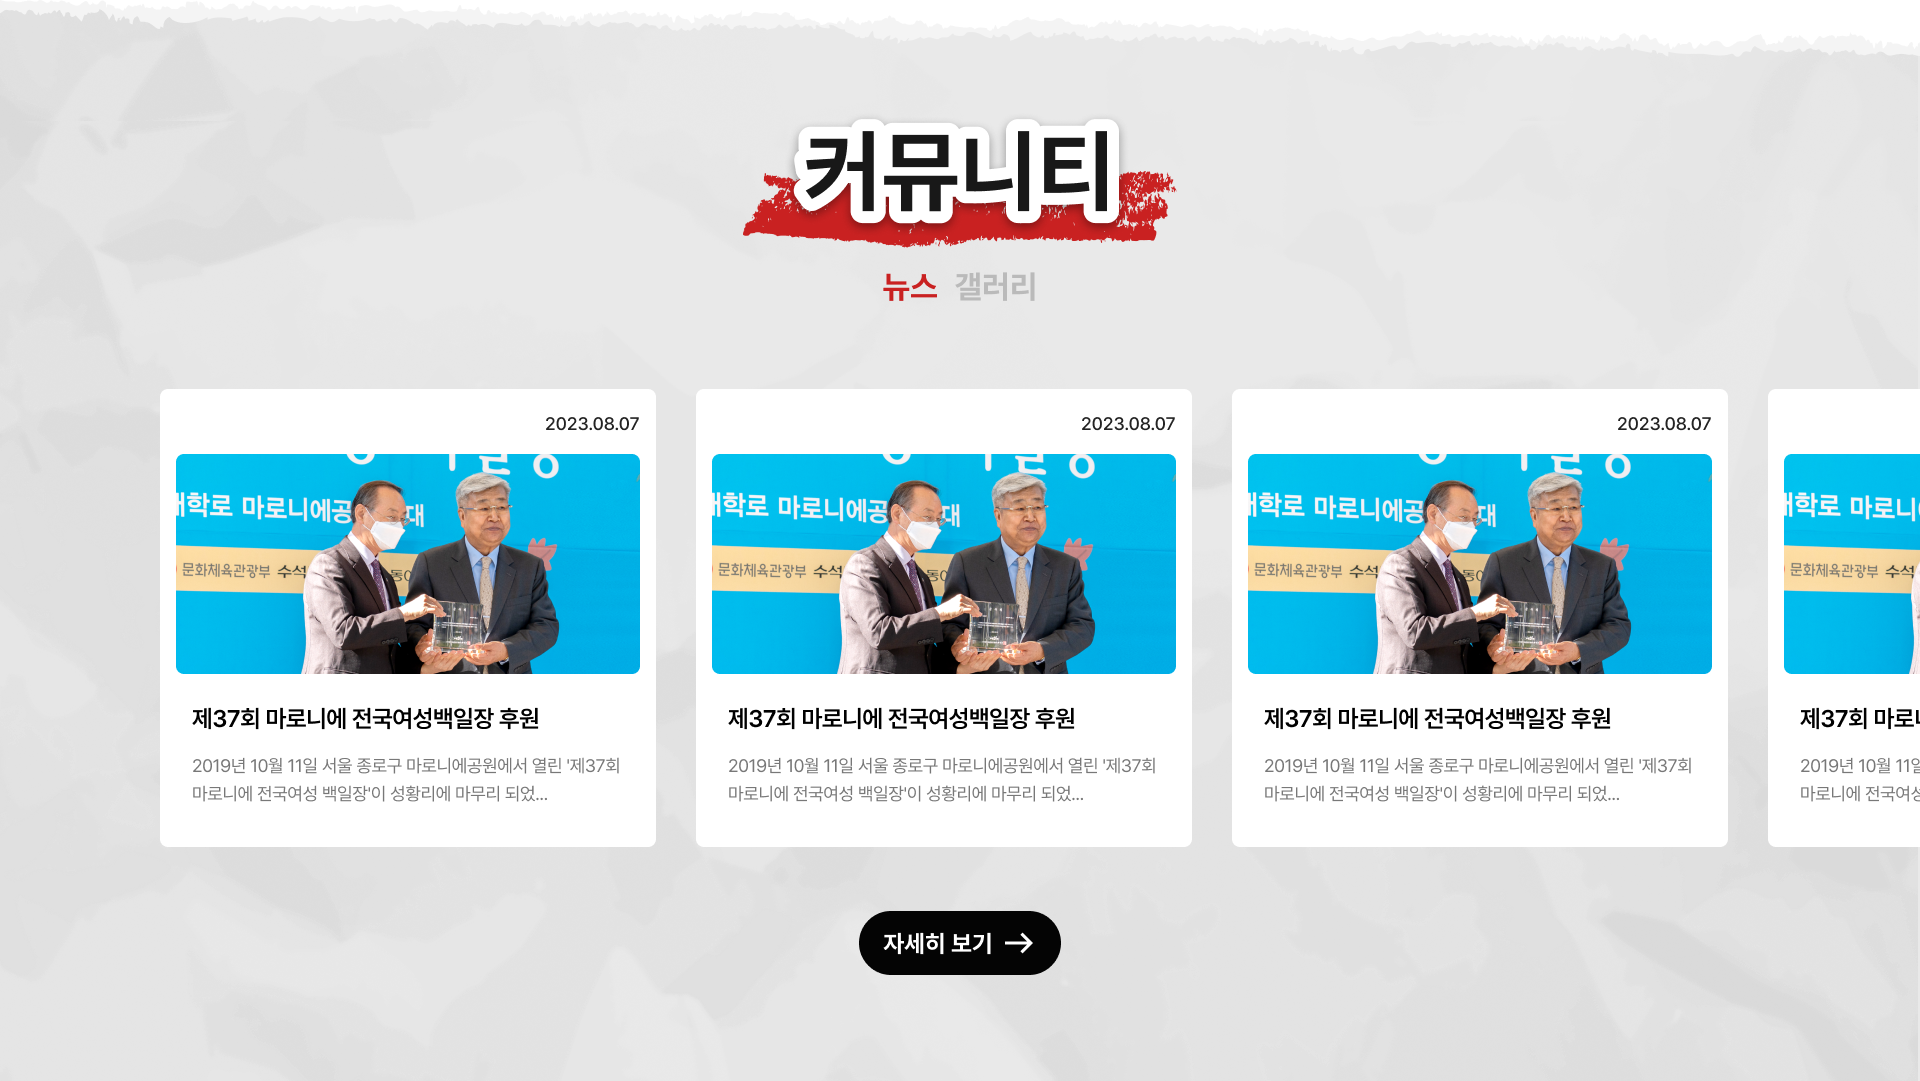
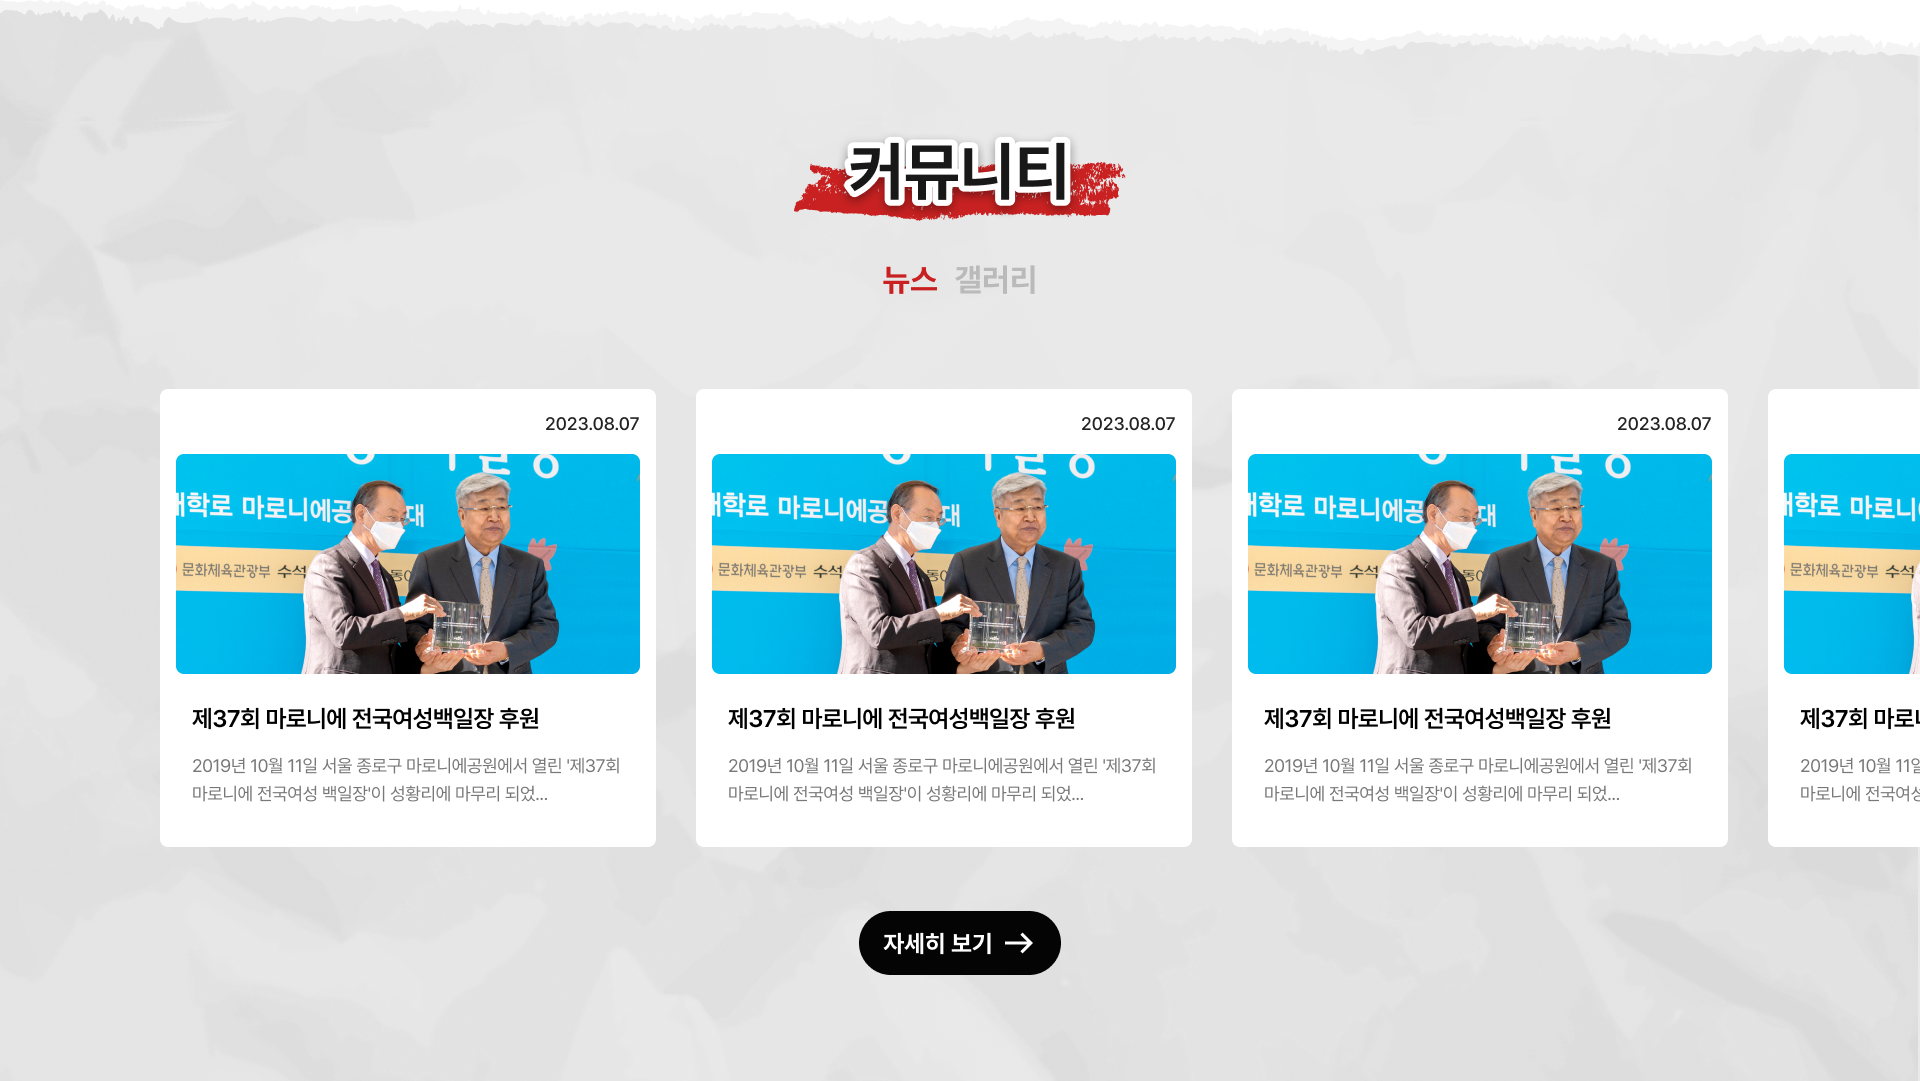
section4,5 수정

Changed region(s): [[0.375, 0.1221, 0.625, 0.2747]]

diff --git a/scss/pages/_main.scss b/scss/pages/_main.scss
@@ -13,25 +13,25 @@
     margin-top: -10vh;
     z-index: 10;
   }
-  > span {
-    position: absolute;
-    left: 50%;
-    transform: translateX(-50%);
-    z-index: 11;
-    > img {
-      max-width: none;
-    }
-    &.sec4_title {
-      top: 13%;
-    }
-    &.sec4_swipe {
-      top: 36%;
-      transform: translateX(-24%);
-    }
-    &.sec4_btn {
-      bottom: 15%;
-    }
-  }
+  // > span {
+  //   position: absolute;
+  //   left: 50%;
+  //   transform: translateX(-50%);
+  //   z-index: 11;
+  //   > img {
+  //     max-width: none;
+  //   }
+  //   &.sec4_title {
+  //     top: 13%;
+  //   }
+  //   &.sec4_swipe {
+  //     top: 36%;
+  //     transform: translateX(-24%);
+  //   }
+  //   &.sec4_btn {
+  //     bottom: 15%;
+  //   }
+  // }
 }
 #visual {
   img {

diff --git a/main.html b/main.html
@@ -74,9 +74,9 @@
         <section id="section3" class="section"><img src="./images/section3.png" alt=""></section>
         <section id="section4" class="section">
           <img src="./images/section4.png" alt="">
-          <span class="sec4_title"><img src="./images/section4_title.png" alt></span>
+          <!-- <span class="sec4_title"><img src="./images/section4_title.png" alt></span>
           <span class="sec4_swipe"><img src="./images/section4_swipe.png" alt></span>
-          <span class="sec4_btn"><img src="./images/section4_btn.png" alt></span>
+          <span class="sec4_btn"><img src="./images/section4_btn.png" alt></span> -->
         </section>
         <section id="section5" class="section"><img src="./images/section5.png" alt=""></section>
       </div>

diff --git a/css/style.css b/css/style.css
@@ -2015,25 +2015,6 @@ img.pc-part {
   margin-top: -10vh;
   z-index: 10;
 }
-.section > span {
-  position: absolute;
-  left: 50%;
-  transform: translateX(-50%);
-  z-index: 11;
-}
-.section > span > img {
-  max-width: none;
-}
-.section > span.sec4_title {
-  top: 13%;
-}
-.section > span.sec4_swipe {
-  top: 36%;
-  transform: translateX(-24%);
-}
-.section > span.sec4_btn {
-  bottom: 15%;
-}
 
 #visual img {
   margin-top: 0;
